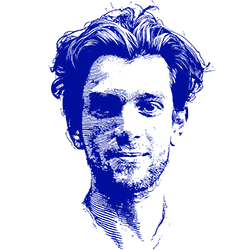
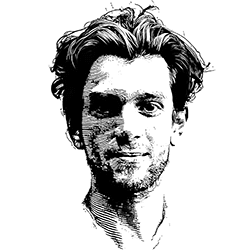
style(just-react): update image assets and adjust component styles
- Replaced the contributor image URL with a new Cloudinary link for better asset management.
- Modified class names in the Home and PostPage components for improved styling consistency.
- Updated global CSS variables to enhance color themes and layout across the application.

Changed region(s): [[0.196, 0.0, 0.868, 1.0], [0.616, 0.784, 0.672, 1.0]]

diff --git a/apps/just-react/src/styles/globals.css b/apps/just-react/src/styles/globals.css
@@ -76,24 +76,24 @@
 	);
 
 	--radius: 0.6rem;
-	--background: oklch(0.9632 0.0121 96.42);
-	--foreground: oklch(0.2686 0 0);
-	--card: oklch(1 0.0124 91.52);
-	--card-foreground: oklch(0.141 0.005 285.823);
+	--background: oklch(1 0 0);
+	--foreground: oklch(0 0 0);
+	--card: oklch(1 0 0);
+	--card-foreground: oklch(0 0 0);
 	--popover: oklch(1 0 0);
 	--popover-foreground: oklch(0.3212 0.2095 264.2);
 	--primary: oklch(0.3212 0.2095 264.2);
 	--primary-dark: #474cd5;
 	--primary-foreground: oklch(1 0 0);
-	--secondary: oklch(1 0.0124 91.52);
-	--secondary-foreground: oklch(0.21 0.006 285.885);
-	--muted: oklch(0.93 0.0141 96.42);
-	--muted-foreground: oklch(0.3786 0 0);
-	--accent: oklch(0.93 0.0141 96.42);
+	--secondary: oklch(0.98 0 0);
+	--secondary-foreground: oklch(0 0 0);
+	--muted: oklch(0.99 0 0);
+	--muted-foreground: oklch(0 0 0);
+	--accent: oklch(0.98 0 0);
 	--accent-foreground: oklch(0.3212 0.2095 264.2);
 	--destructive: oklch(0.577 0.245 27.325);
-	--border: oklch(0.8632 0.0121 96.42);
-	--input: oklch(0.85 0.0121 96.42);
+	--border: oklch(0.93 0 0);
+	--input: oklch(0.97 0 0);
 	--ring: oklch(0.3212 0.2095 264.2);
 	--chart-1: oklch(0.646 0.222 41.116);
 	--chart-2: oklch(0.6 0.118 184.704);
@@ -217,7 +217,7 @@
 		var(--font-inter), ui-sans-serif, system-ui, sans-serif,
 		'Apple Color Emoji', 'Segoe UI Emoji', 'Segoe UI Symbol', 'Noto Color Emoji';
 	--font-heading:
-		var(--font-tasa-orbiter), ui-sans-serif, system-ui, sans-serif,
+		var(--font-inter), ui-sans-serif, system-ui, sans-serif,
 		'Apple Color Emoji', 'Segoe UI Emoji', 'Segoe UI Symbol', 'Noto Color Emoji';
 	--font-serif:
 		var(--font-libre-caslon-text), ui-serif, serif, 'Apple Color Emoji',
@@ -309,79 +309,6 @@
 	--radius-xl: calc(var(--radius) + 4px);
 }
 
-@utility prose-themed {
-	--tw-prose-body: var(--color-foreground);
-	--tw-prose-headings: var(--color-foreground);
-	--tw-prose-lead: var(--color-foreground);
-	--tw-prose-links: var(--color-primary);
-	--tw-prose-bold: var(--color-foreground);
-	--tw-prose-counters: var(--color-foreground);
-	--tw-prose-bullets: var(--color-foreground);
-	--tw-prose-hr: var(--color-border);
-	--tw-prose-quotes: var(--color-foreground);
-	--tw-prose-quote-borders: var(--color-border);
-	--tw-prose-captions: var(--color-foreground);
-	--tw-prose-code: var(--color-foreground);
-	--tw-prose-pre-code: var(--color-foreground);
-	--tw-prose-pre-bg: var(--color-muted);
-	--tw-prose-th-borders: var(--color-border);
-	--tw-prose-td-borders: var(--color-border);
-	--tw-prose-invert-body: var(--color-foreground);
-	--tw-prose-invert-headings: var(--color-foreground);
-	--tw-prose-invert-lead: var(--color-foreground);
-	--tw-prose-invert-links: var(--color-primary);
-	--tw-prose-invert-bold: var(--color-foreground);
-	--tw-prose-invert-counters: var(--color-foreground);
-	--tw-prose-invert-bullets: var(--color-muted-foreground);
-	--tw-prose-invert-hr: var(--color-border);
-	--tw-prose-invert-quotes: var(--color-muted-foreground);
-	--tw-prose-invert-quote-borders: var(--color-border);
-	--tw-prose-invert-captions: var(--color-foreground);
-	--tw-prose-invert-code: var(--color-foreground);
-	--tw-prose-invert-pre-code: var(--color-foreground);
-	--tw-prose-invert-pre-bg: var(--color-muted);
-	--tw-prose-invert-th-borders: var(--color-foreground);
-	--tw-prose-invert-td-borders: var(--color-border);
-	blockquote {
-		border-left-color: color-mix(
-			in srgb,
-			var(--color-primary) 100%,
-			transparent
-		);
-		border-left-width: 2px;
-	}
-
-	h1,
-	h2,
-	h3 {
-		@apply font-heading tracking-tight;
-	}
-	code::before,
-	code::after {
-		content: '';
-	}
-	code {
-		@apply bg-muted text-foreground px-1 py-0.5 text-[0.875rem] font-bold;
-	}
-	ul,
-	ol {
-		padding-inline-start: 1.5em;
-	}
-	li {
-		list-style-position: outside;
-		padding-inline-start: 1em;
-		&::marker {
-			content: '✱';
-			color: var(--color-primary);
-			font-size: 0.8em;
-			transition: transform 0.2s ease-in-out;
-		}
-	}
-	p {
-		@apply leading-relaxed;
-	}
-}
-
 @utility min-h-fullscreen {
 	min-height: 100dvh;
 	/* min-height: calc(100dvh - var(--nav-height)); */
@@ -420,6 +347,22 @@
 	--tw-prose-invert-pre-bg: var(--color-muted);
 	--tw-prose-invert-th-borders: var(--color-foreground);
 	--tw-prose-invert-td-borders: var(--color-border);
+
+	h1,
+	h2,
+	h3 {
+		@apply font-heading tracking-tight;
+	}
+	code::before,
+	code::after {
+		content: '';
+	}
+	code {
+		@apply bg-muted text-foreground px-1 py-0.5 text-[0.875rem] font-bold;
+	}
+	p {
+		@apply leading-relaxed;
+	}
 }
 
 @layer base {
@@ -427,10 +370,6 @@
 		/* outline: 1px solid red; */
 	}
 	.marketing-page {
-		--foreground: oklch(0.3112 0.2095 264.2);
-		--muted-foreground: oklch(0.6 0.08 264.2);
-		--color-foreground: var(--foreground);
-		--color-muted-foreground: var(--muted-foreground);
 	}
 
 	.dark {

diff --git a/apps/just-react/src/app/page.tsx b/apps/just-react/src/app/page.tsx
@@ -60,7 +60,7 @@ const Home = async (props: Props) => {
 							<SplitText
 								splitBy="chars"
 								as="h1"
-								className="font-heading text-primary leading-0 text-5xl font-bold tracking-tight lg:text-7xl"
+								className="font-heading leading-0 text-5xl font-bold tracking-tight lg:text-7xl"
 							>
 								{h1?.text || page?.fields.title}
 							</SplitText>
@@ -68,8 +68,8 @@ const Home = async (props: Props) => {
 								<SplitText
 									splitBy="chars"
 									as="h2"
-									className={cn('text-primary -mt-2 text-base lg:text-lg', {
-										'pl-6': h1?.text?.startsWith('J'),
+									className={cn('text-base lg:text-lg', {
+										'': h1?.text?.startsWith('J'),
 									})}
 								>
 									{h2.text}

diff --git a/apps/just-react/src/components/brand/hero-video.tsx b/apps/just-react/src/components/brand/hero-video.tsx
@@ -23,7 +23,7 @@ export default function HeroVideo({ className }: { className?: string }) {
 				alt="Eye"
 				width={300}
 				height={300}
-				className={cn('absolute inset-0', {
+				className={cn('absolute inset-0 contrast-150 saturate-0', {
 					'opacity-0': videoLoaded,
 					'opacity-100': !videoLoaded,
 				})}
@@ -43,7 +43,7 @@ export default function HeroVideo({ className }: { className?: string }) {
 				height={300}
 				playsInline
 				preload="auto"
-				className={cn('relative z-0 shrink-0', {
+				className={cn('relative z-0 shrink-0 contrast-150 saturate-0', {
 					'opacity-100': videoLoaded,
 					'opacity-0': !videoLoaded,
 				})}

diff --git a/apps/just-react/src/components/contributor.tsx b/apps/just-react/src/components/contributor.tsx
@@ -42,7 +42,7 @@ export const ContributorImage = ({
 	return (
 		<CldImage
 			src={
-				'https://res.cloudinary.com/dbdlunqwz/image/upload/v1769766029/dan-abramov_pleos6.png'
+				'https://res.cloudinary.com/dbdlunqwz/image/upload/v1769787824/dan-abramov_fpfcze.png'
 			}
 			className={cn('rounded-full', className)}
 			alt={config.author}

diff --git a/apps/just-react/src/app/(content)/[post]/page.tsx b/apps/just-react/src/app/(content)/[post]/page.tsx
@@ -192,7 +192,7 @@ export default async function PostPage(props: {
 								/>
 							</div>
 						</div>
-						<div className="border-t" data-theme="blue">
+						<div className="border-t" data-theme="invert">
 							<PostNextUpFromListPagination
 								className="container mx-auto rounded-none py-10 lg:py-16"
 								postId={post.id}
